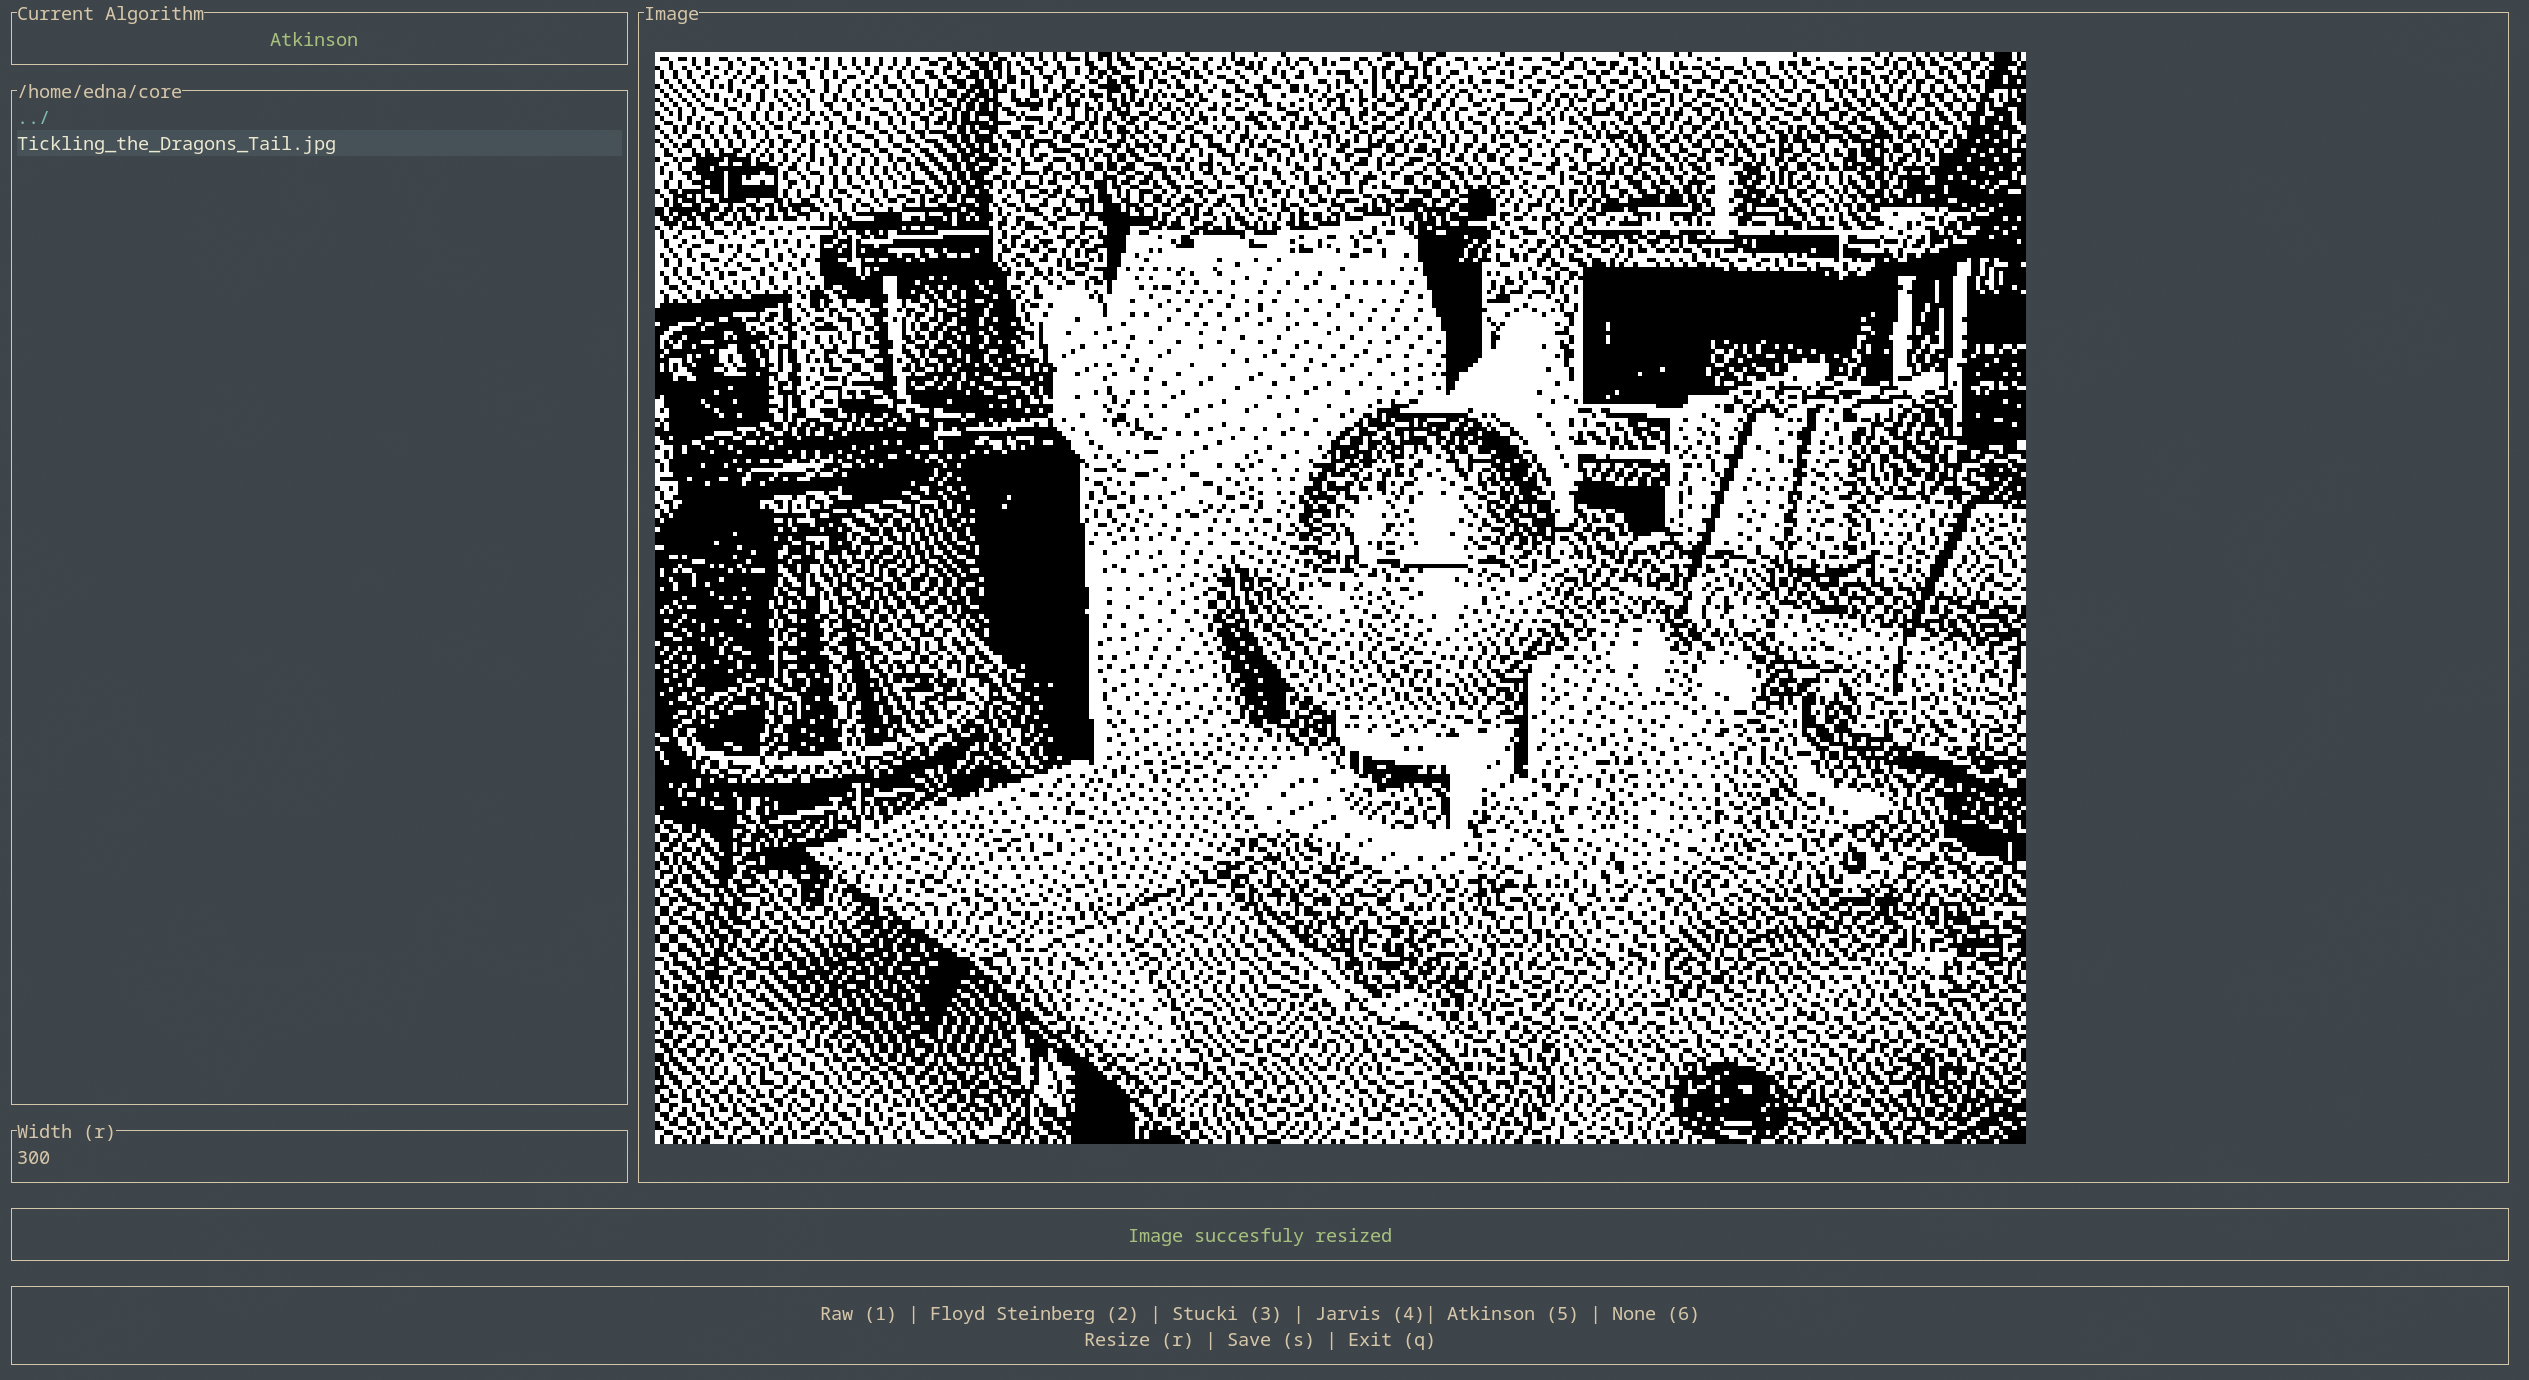
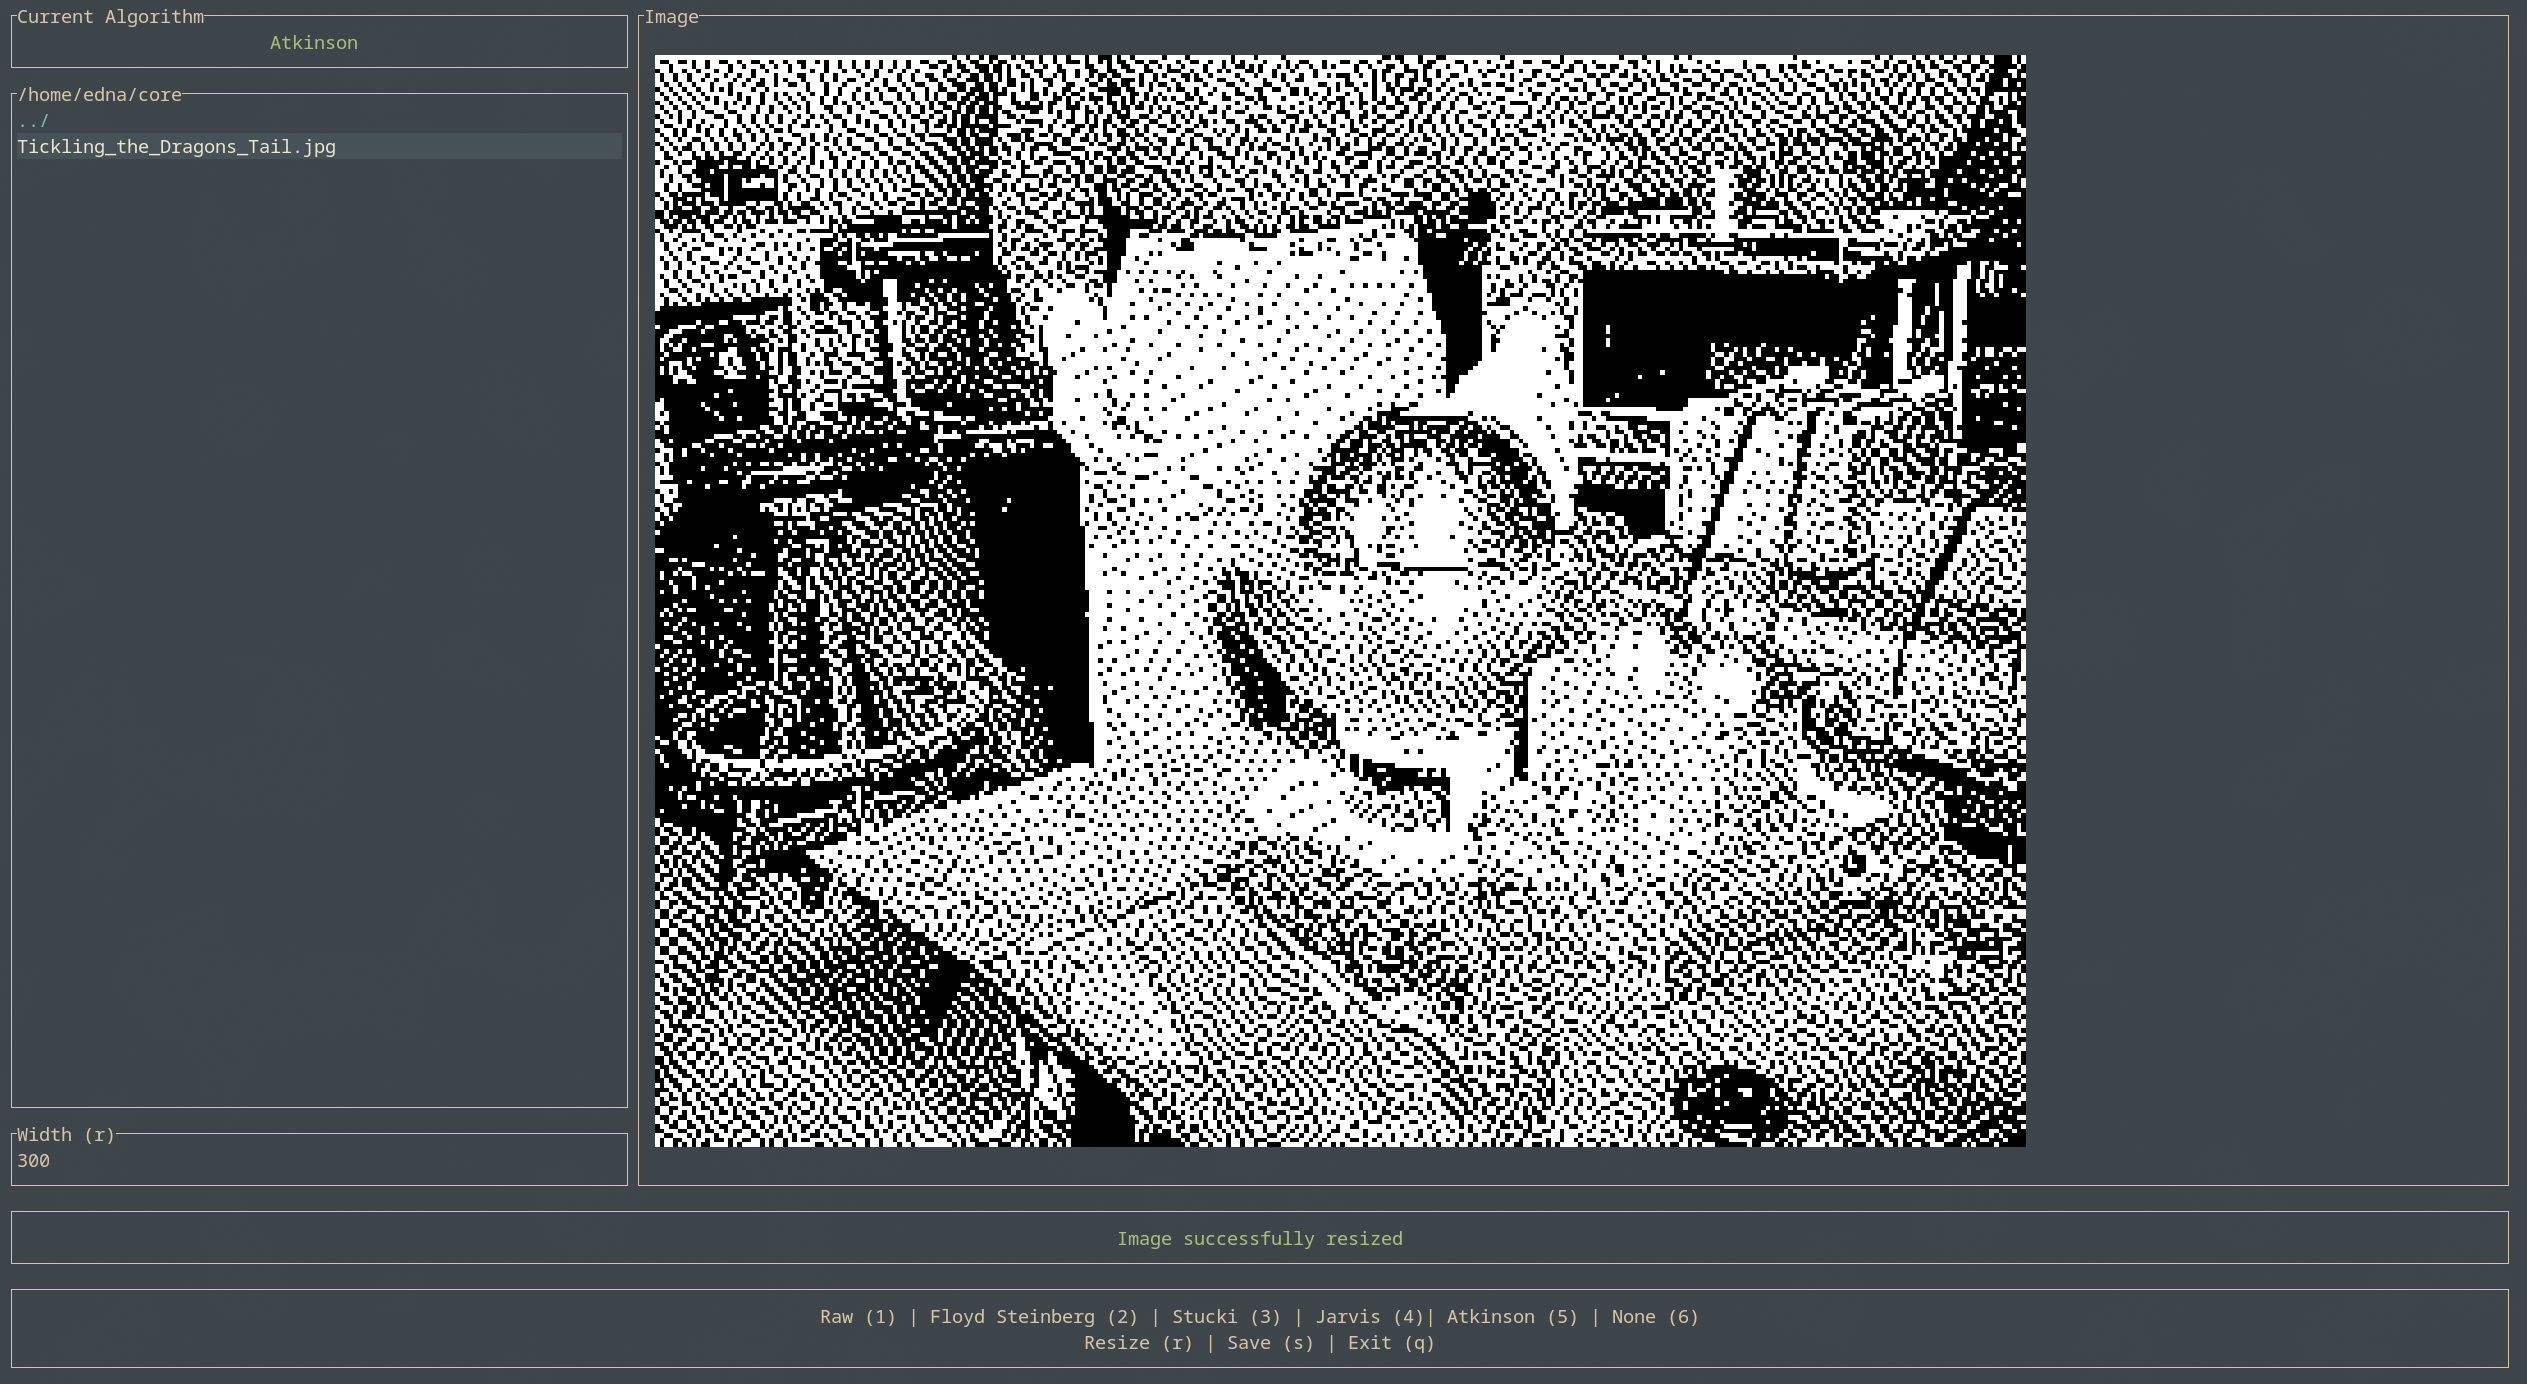
fix: typos

diff --git a/src/app.rs b/src/app.rs
@@ -310,7 +310,7 @@ impl App {
             let input = self.input.parse().unwrap_or(300);
             if input > 30 && input < 9000 {
                 self.output_width = self.input.parse().unwrap_or(300);
-                self.snackbar = "Image succesfuly resized".to_string()
+                self.snackbar = "Image successfully resized".to_string()
             } else {
                 self.snackbar = "The value has to be between 30 and 9000!".to_string();
             }
